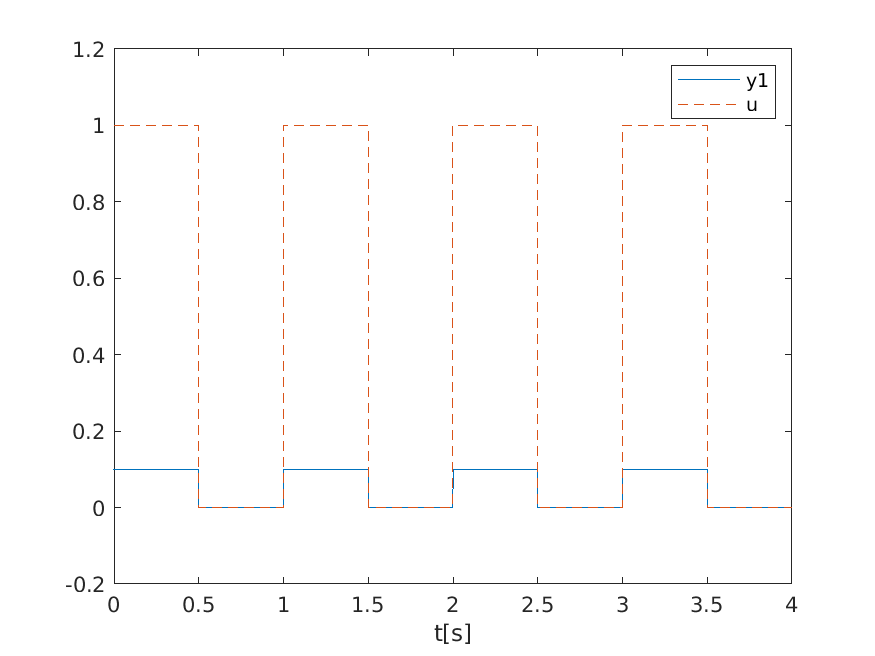
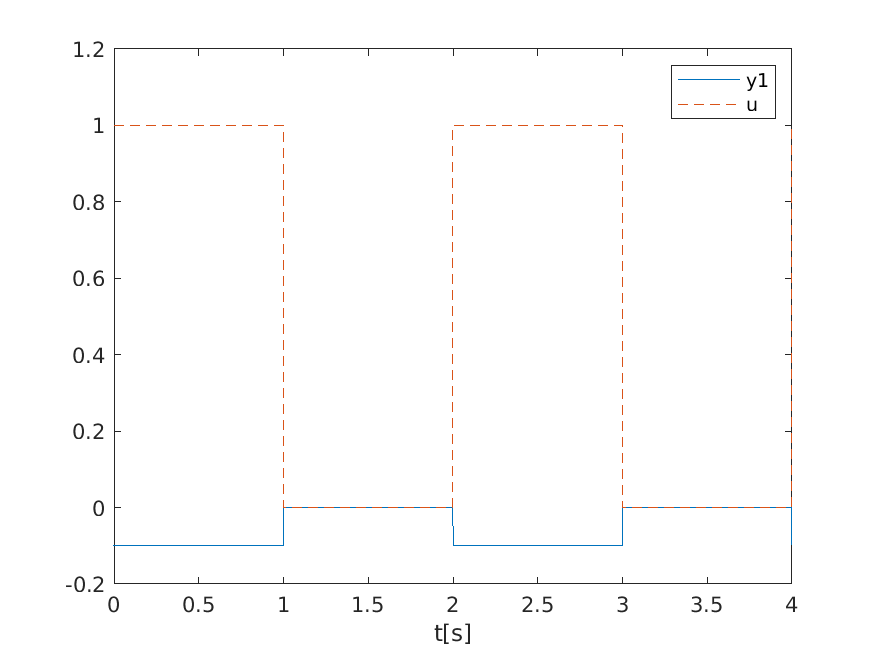
lab 2 second version

diff --git a/Lab2/main.m b/Lab2/main.m
@@ -6,24 +6,24 @@ R3 = 100e3
 R4 = 220e3
 R5 = 100e3
 R6 = 470e3
-R7 = 1e3
+R7 = 1e6
 C1 = 0.1e-6
 C2 = 0.1e-6
 C3 = 0.1e-6
 
-k1 = R2/R1
+k1 = -R2/R1
 t1 = 0
 G1 = tf(k1,[t1,1])
 
-k2 = R4/R3
+k2 = -R4/R3
 t2 = R4*C1
 G2 = tf(k2,[t2,1])
 
-k3 = R6/R5
+k3 = -R6/R5
 t3 = R6*C2
 G3 = tf(k3,[t3,1])
 
-k4 = 1/(R7*C3)
+k4 = -1/(R7*C3)
 G4 = tf(k4,[1,0])
 
 G=G1*G2*G3*G4
@@ -31,15 +31,16 @@ G=G1*G2*G3*G4
 opts = bodeoptions('cstprefs');
 opts.Grid = 'on';
 opts.MagScale = 'linear';
-bodeplot(G1,G2,G3,G4,G,opts);
-h=legend('G1','G2','G3','G4','G');
+margin(G);
+h=legend('G');
 saveas(h,'./data/bode.png');
 
+figure
 dt = 1e-3;
 t0 = 0;
 t1 = 4;
 t = t0:dt:t1;
-u = (t >= 0) - (t >= 0.5) + (t >= 1) - (t >= 1.5) + (t >= 2) - (t >= 2.5) + (t >= 3) - (t >= 3.5);
+u = (t >= 0) - (t >= 1) + (t >= 2) - (t >= 3) + (t >= 4);
 p=plot(t,u);
 xlabel('t[s]');
 ylabel('u(t)');
@@ -75,5 +76,6 @@ xlabel('t[s]');
 p=legend('y4','y3');
 %ylim([-0.2,2.2]);
 saveas(p,'./data/y4.png');
+
 close all;
 exit()
